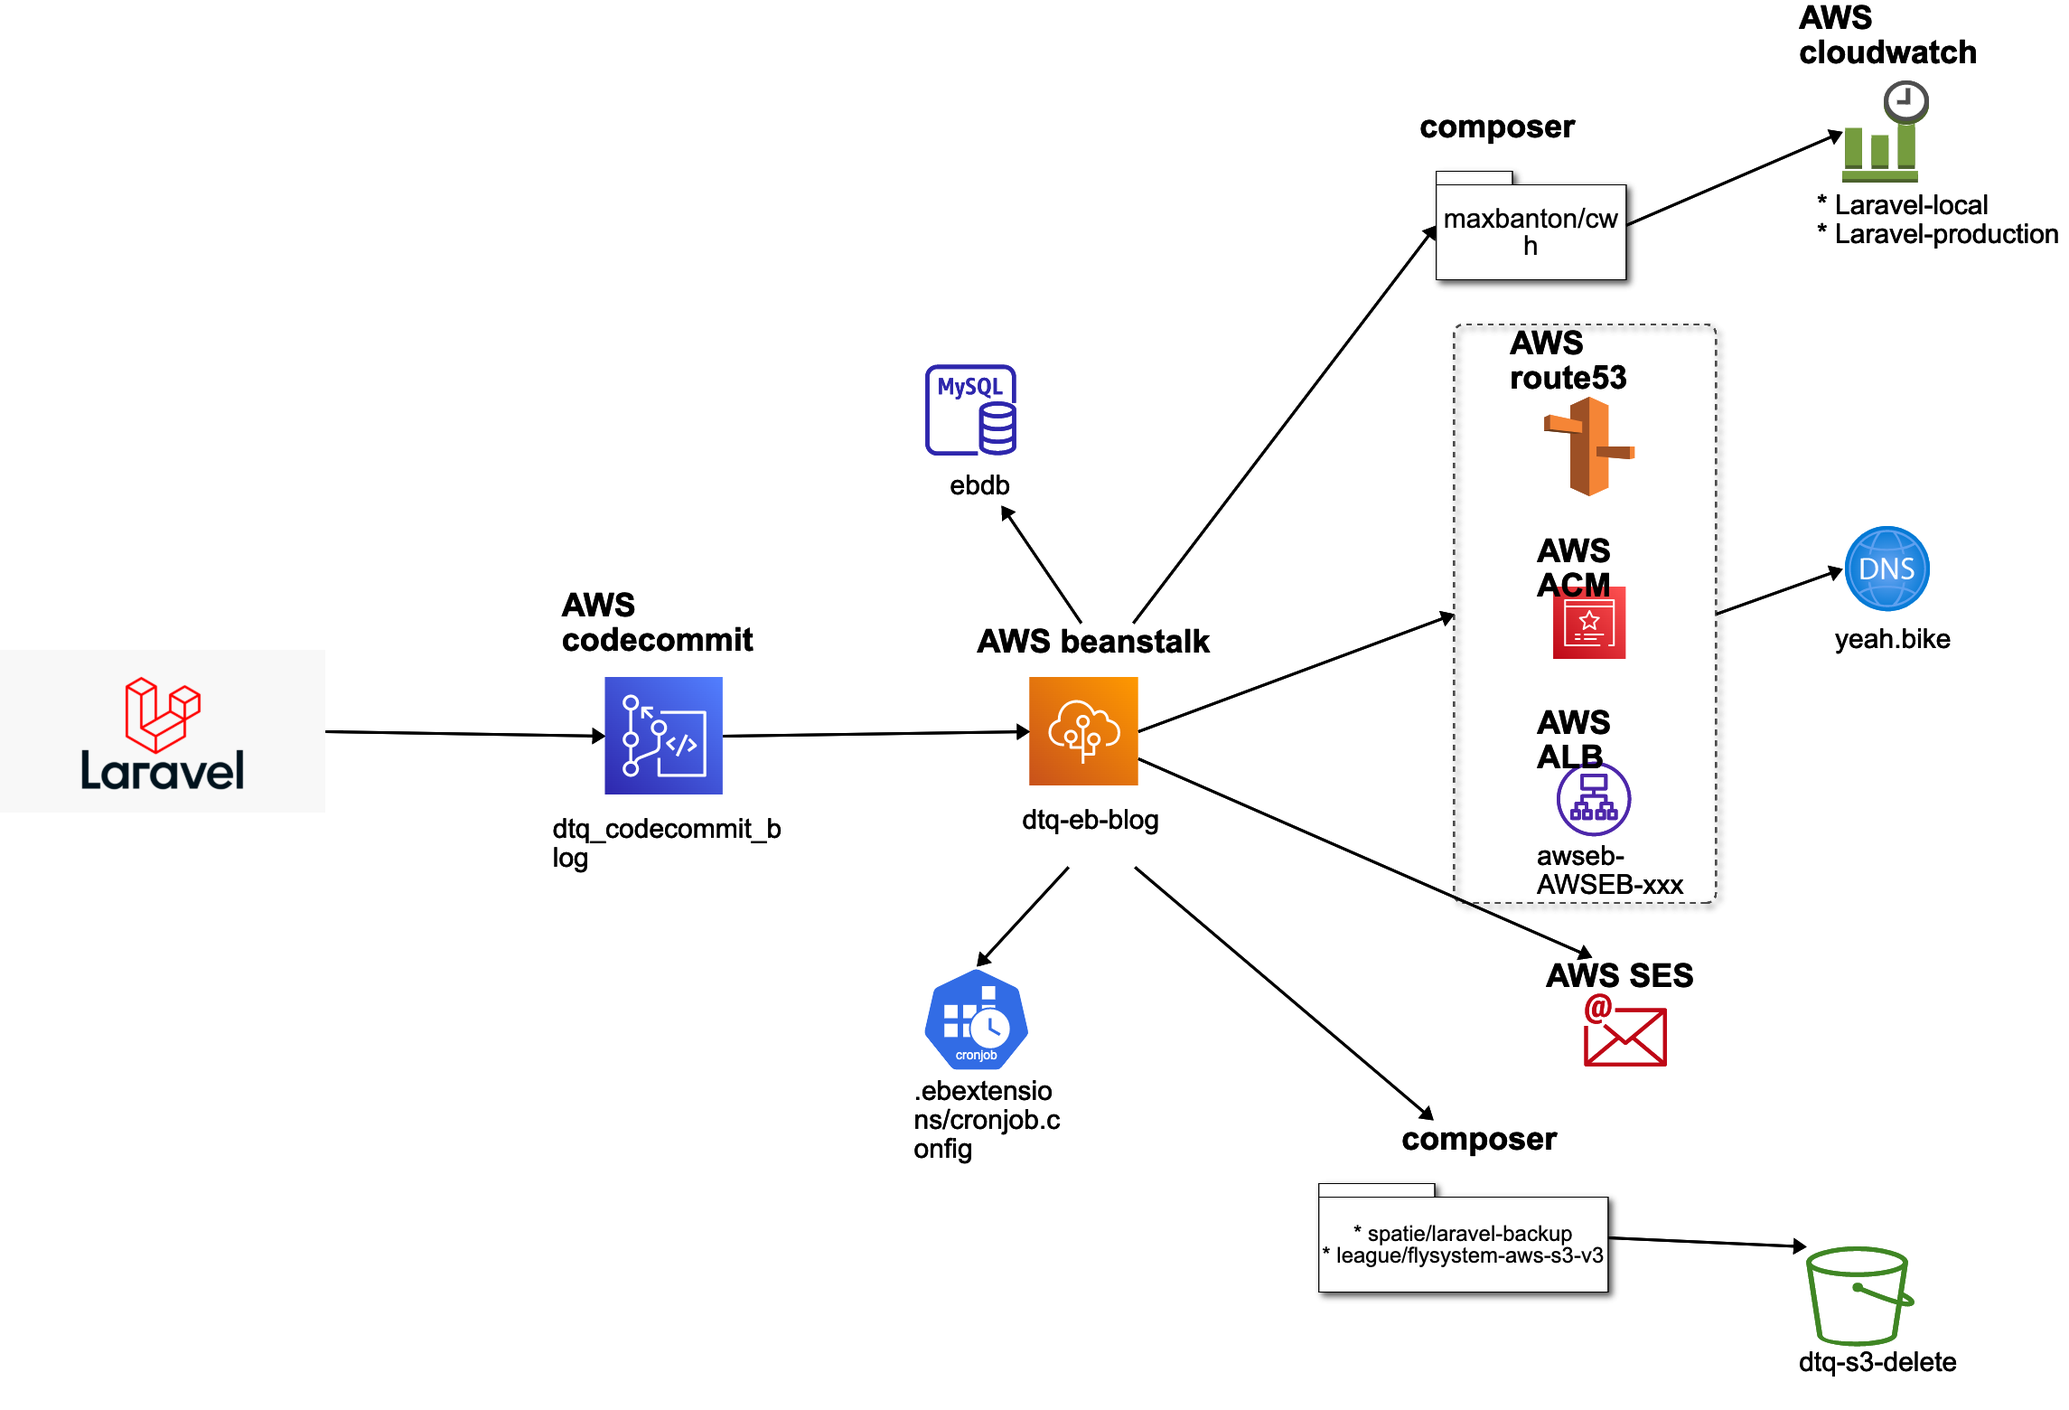
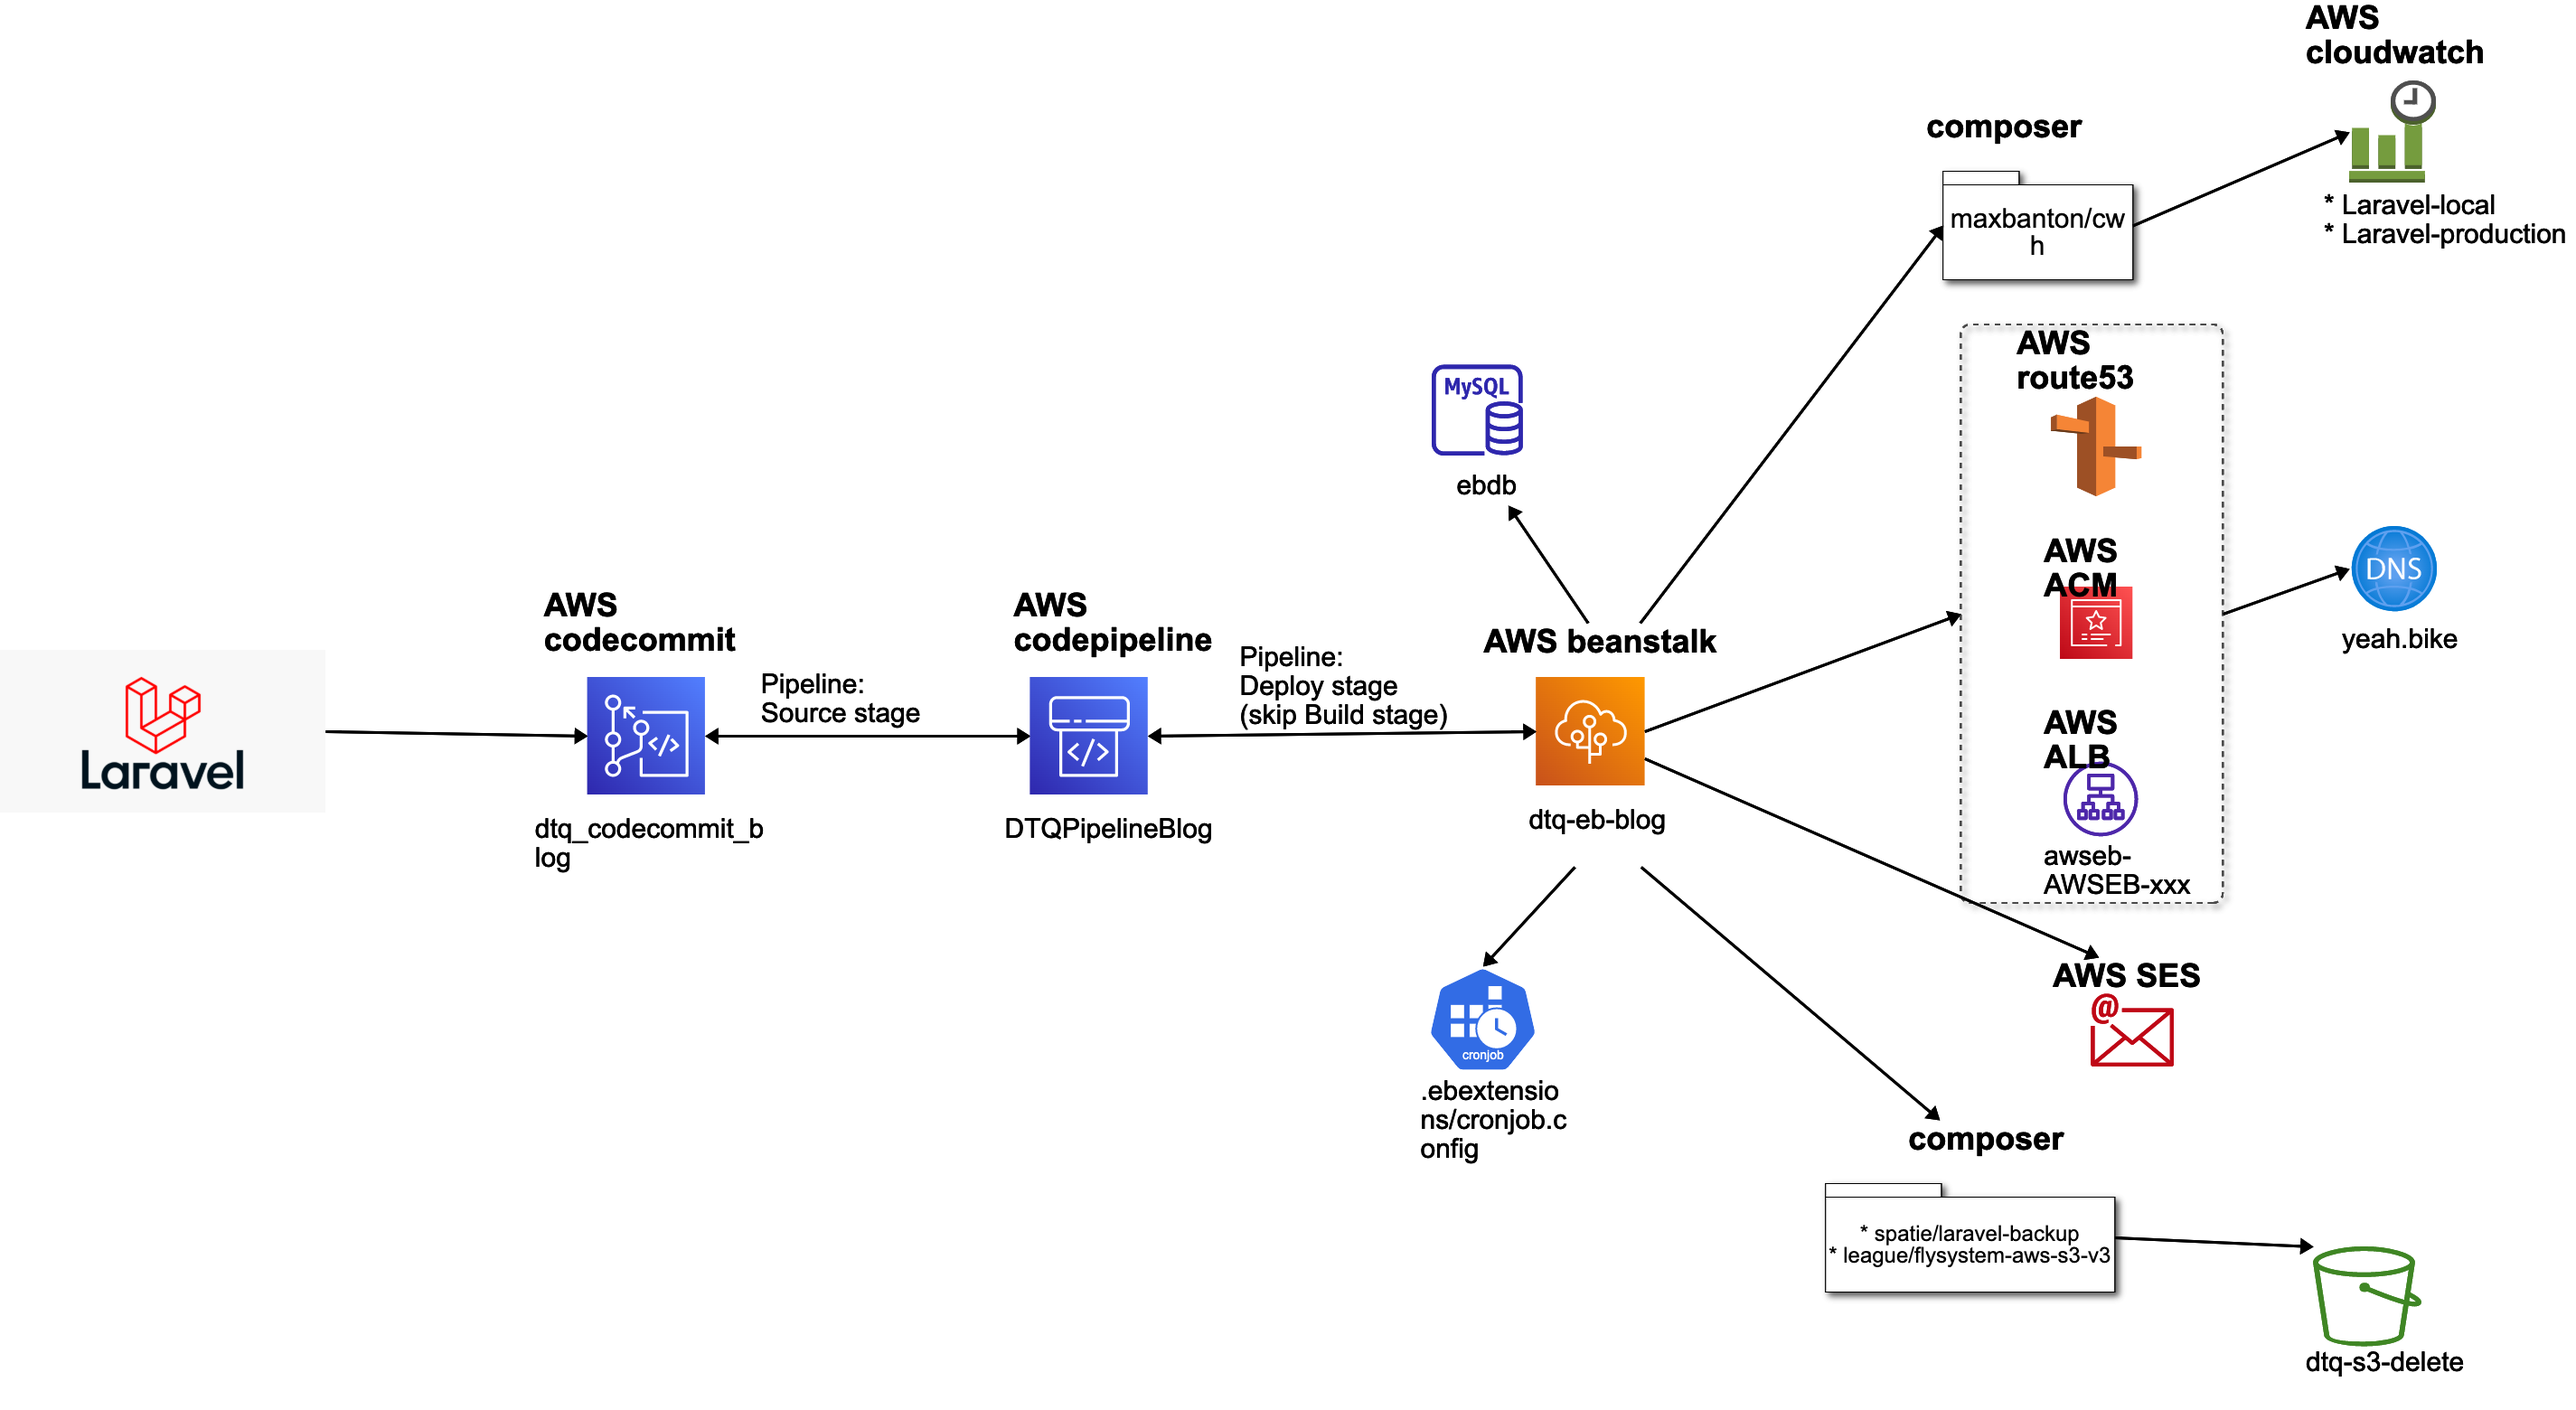
edit

diff --git a/README.md b/README.md
@@ -79,6 +79,14 @@ git push -u origin master # if ERR use `git push -f origin master`
 + access eb's URL on browser > register > login > OK!
 ![ebresult](screenshots/ebresult.png)
 
+## code pipeline
++ create `DTQPipelineBlog`
++ step: `add src stage`
+![pline1](screenshots/pline1.png)
++ step: `add build stage`: skip
++ step: `add deploy stage`
+![pline2](screenshots/pline2.png)
+
 ## cwatch
 ```shell
 composer require maxbanton/cwh
@@ -288,4 +296,9 @@ php artisan backup:run --only-db
 + edit `app/Console/Kernel.php`:
 ```php
 $schedule->command('backup:run --only-db')->dailyAt('4:00');
+```
+
+## delete AWS services & resources
+```shell
+./del_aws_resource.sh
 ```
